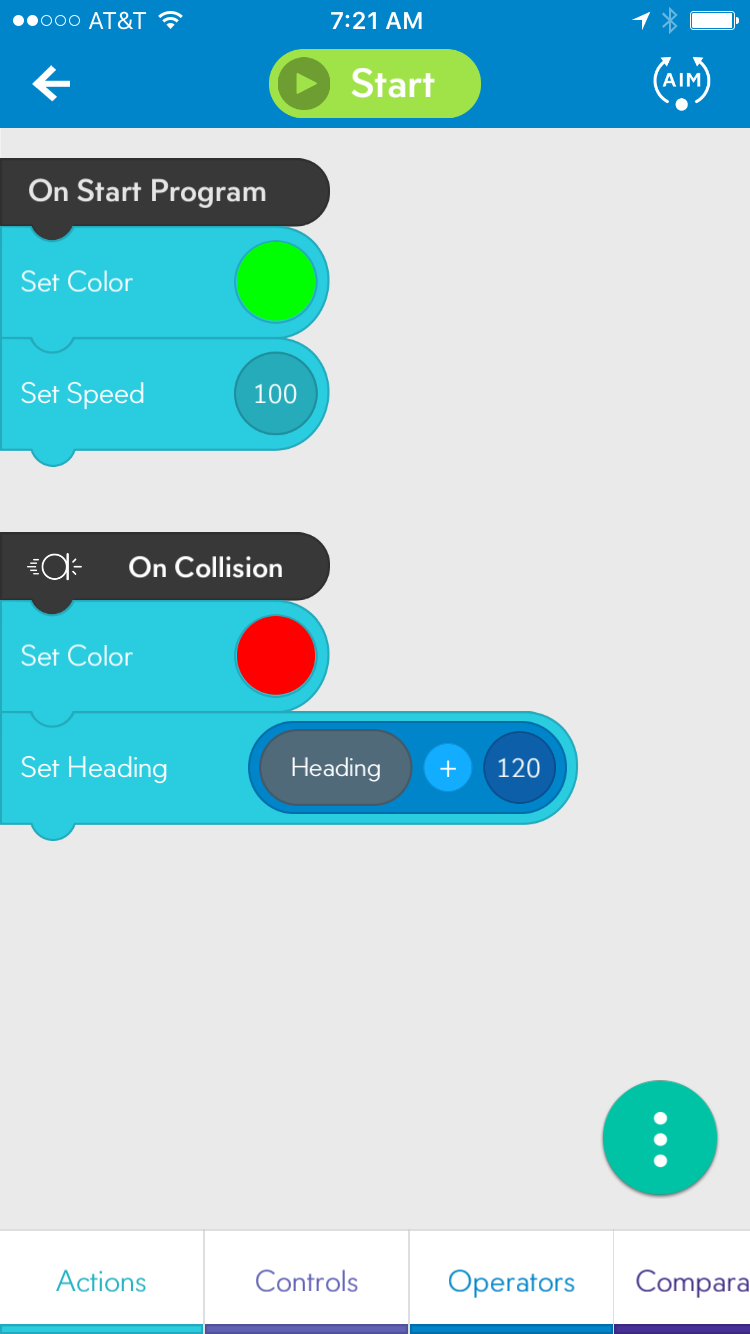
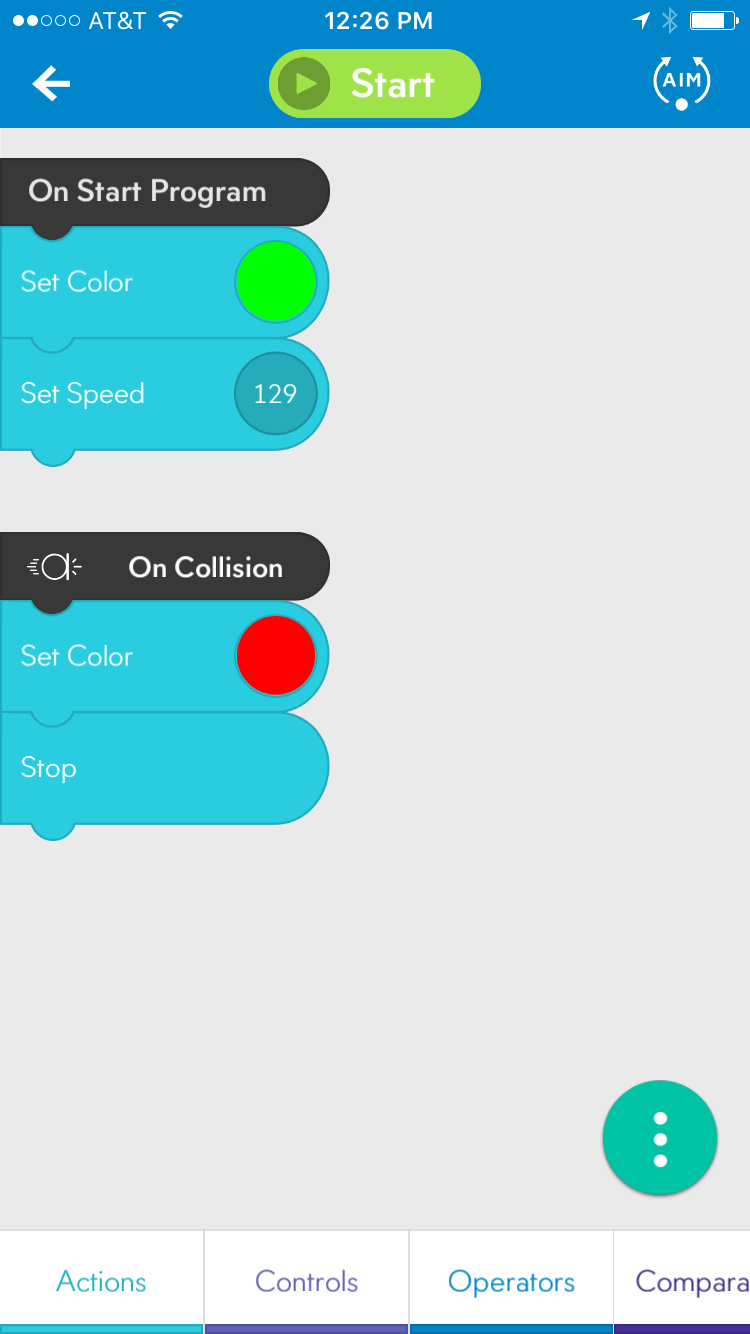
Simplified the OnCollision event to demo the code more clearly.

diff --git a/Examples/ObstacleManagement.md b/Examples/ObstacleManagement.md
@@ -1,18 +1,18 @@
 ##Obstacle Management
 
-This code demonstrates EVENTS and their use in creating complex behavior. Older student may appreciate a small introduction to the concept of threads and multi-threaded application development but it is not needed for this exercise.
+This code demonstrates EVENTS and their use in creating  behavior. Older student may appreciate a small introduction to the concept of threads and multi-threaded application development but it is not needed for this exercise.
 
 ###Behavior
 
-When executed the robot will turn the onboard LED green and start to move forward. In the event of a collision the robot will turn red and alter it's heading before proceeding.
+When executed the robot will turn the on-board LED green and start to move forward. In the event of a collision the robot will turn red and come to a full stop.
 
 ###Events
 
-There are four events. These are,
+In the SPRK Lightning Lab IDE there are four predefined events. These are,
 
-*	On Collision
-*	On Freefall
-*	On Land
-*	On Gyro Max
+*	On Collision - Conditional logic performed when the robot collides with an object.
+*	On Freefall - Conditional logic performed when the robot falls through the air, defined by an accelerometer reading of < 0.1 G for a duration of >= 0.1 seconds. (Remember the 1 G is resting.)
+*	On Land - Conditional logic performed when the robot lands after an On Freefall event.
+*	On Gyro Max - Conditional logic performed when the robot reaches the upper limit of rotational velocity. Gyro Max can be triggered by spinning the robot extremely fast.
 
-This application uses the On Collision event. On Collision will define the logic to follow when a collision is detected. In our application, that code sets the color to onboard LED to red and updates the heading. Once executed the On Start Program (which is a kind of special event) resumes.
+This application uses the On Collision event. On Collision defines the logic to follow when a collision is detected. In our application, that code sets the color of the on-board LED to red and calls the stop action.
